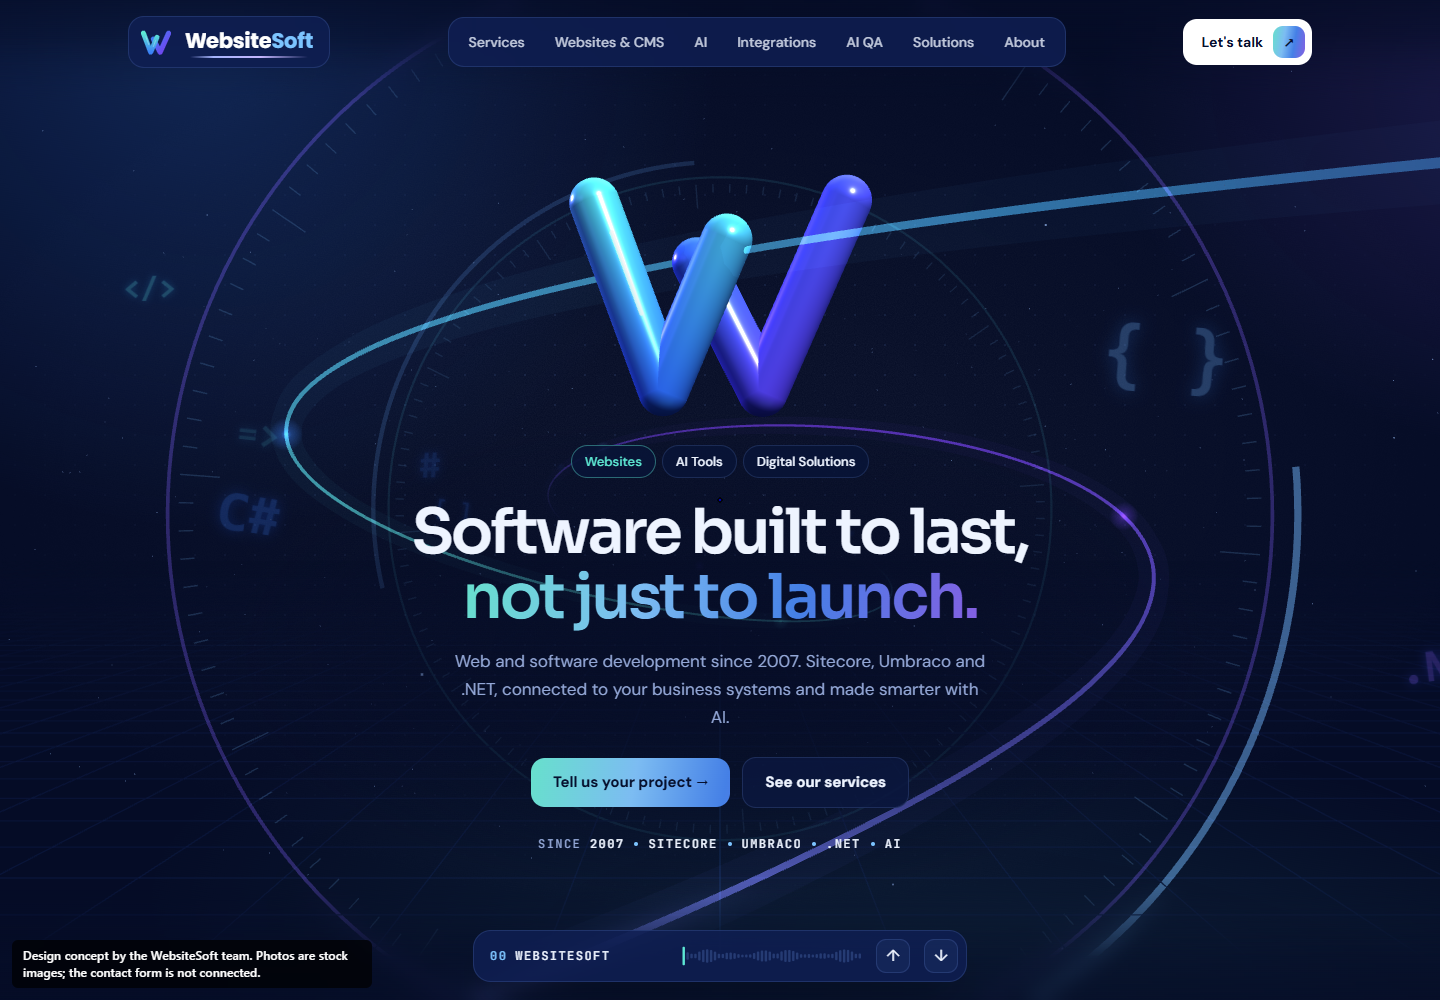
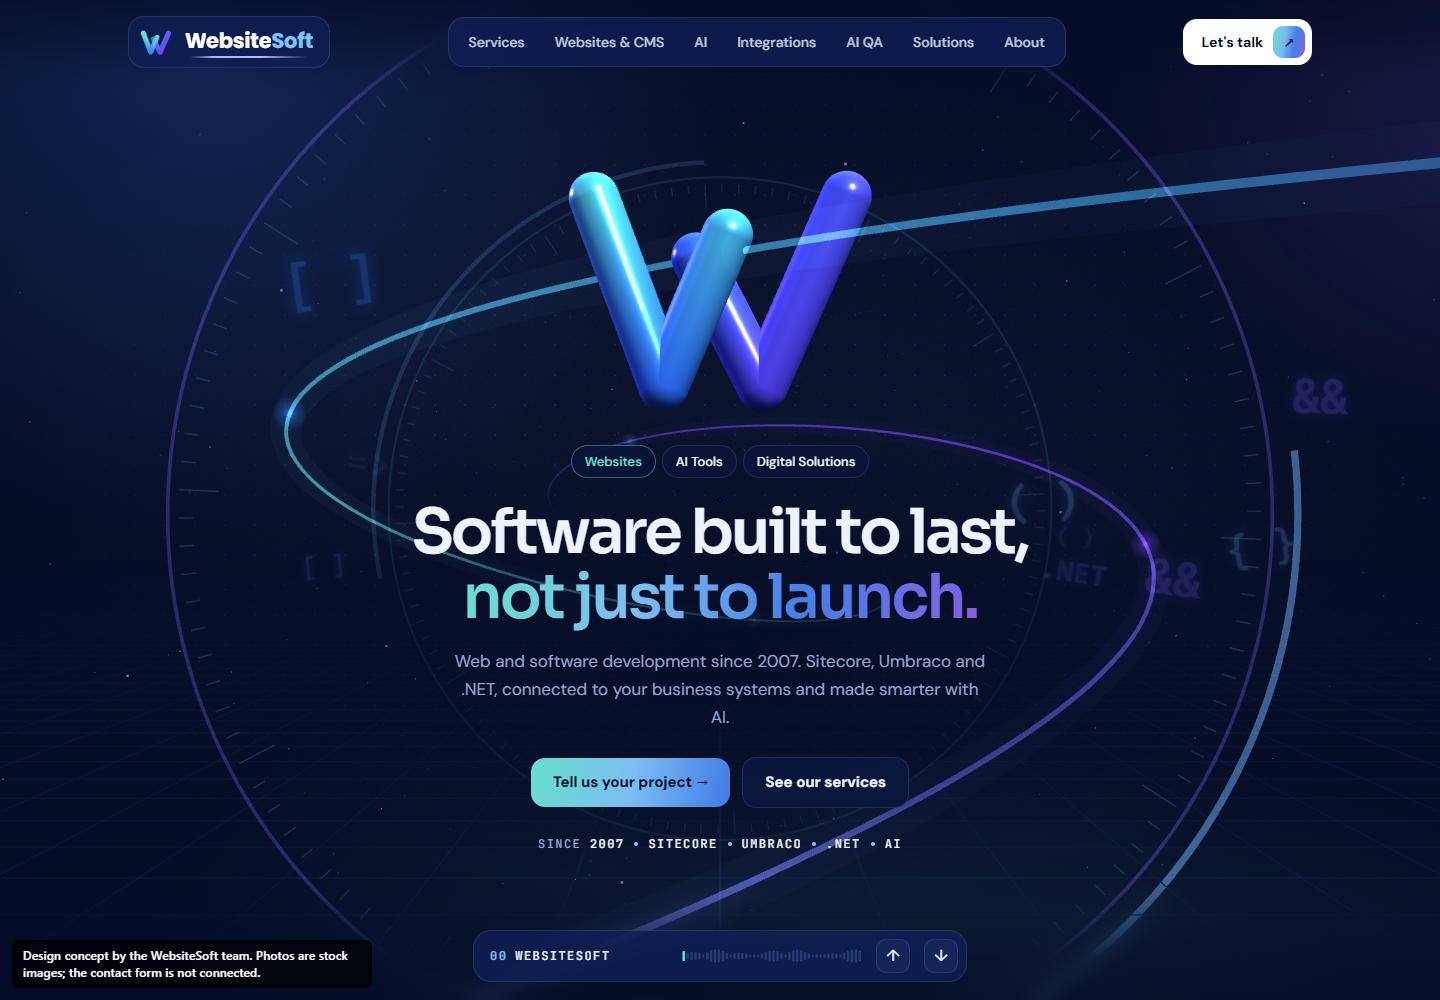
Publish direction 09: Studio (main@1db69a3)

diff --git a/09/index.html b/09/index.html
@@ -1,13 +1,13 @@
 <!doctype html>
 <html lang="en-GB">
 <head>
-    <meta name="robots" content="noindex, nofollow, noarchive" />
 <meta charset="utf-8">
 <meta name="viewport" content="width=device-width, initial-scale=1, viewport-fit=cover">
 <title>WebsiteSoft | Web &amp; software development since 2007</title>
 <meta name="description" content="WebsiteSoft builds custom website software, Sitecore and XM Cloud, Umbraco CMS, .NET applications, API integrations and AI tools. Web and software development since 2007.">
 <meta name="keywords" content="WebsiteSoft, custom website software, Sitecore, legacy Sitecore, XM Cloud, Umbraco, .NET, C#, CMS migration, API integration, AI integration, AI QA">
 <meta name="author" content="WebsiteSoft">
+<meta name="robots" content="noindex, nofollow, noarchive">
 <meta name="theme-color" content="#050c26">
 <link rel="canonical" href="https://www.websitesoft.co.uk/">
 <meta property="og:type" content="website">
@@ -26,6 +26,7 @@
 <link rel="stylesheet" href="https://fonts.googleapis.com/css2?family=Poppins:wght@700&family=Sora:wght@300;400;600;700&family=DM+Sans:wght@400;500;700&family=JetBrains+Mono:wght@400;500&display=swap">
 <link rel="icon" href="assets/img/favicon.svg" type="image/svg+xml">
 <link rel="stylesheet" href="assets/css/styles.css">
+<script data-preview-note-script>addEventListener('load',function(){setTimeout(function(){if(document.querySelector('[data-preview-note]'))return;var d=document.createElement('div');d.setAttribute('data-preview-note','');d.setAttribute('role','note');d.style.cssText="position:fixed;left:12px;bottom:12px;z-index:2147483647;max-width:min(360px,calc(100vw - 24px));padding:7px 11px;border-radius:6px;background:rgba(0,0,0,.72);color:#fff;font:500 12px/1.4 system-ui,-apple-system,'Segoe UI',sans-serif;letter-spacing:.01em;pointer-events:none;backdrop-filter:blur(4px)";d.textContent="Design concept by the WebsiteSoft team. Photos are stock images; the contact form is not connected.";document.body.appendChild(d);},1500);});</script>
 </head>
 <body>
 <svg width="0" height="0" style="position:absolute" aria-hidden="true">
@@ -283,6 +284,5 @@
 </nav>
 <script src="assets/vendor/three.min.js"></script>
 <script src="assets/js/main.js"></script>
-<div data-preview-note role="note" style="position:fixed;left:12px;bottom:12px;z-index:2147483647;max-width:min(360px,calc(100vw - 24px));padding:7px 11px;border-radius:6px;background:rgba(0,0,0,.72);color:#fff;font:500 12px/1.4 system-ui,-apple-system,'Segoe UI',sans-serif;letter-spacing:.01em;pointer-events:none;backdrop-filter:blur(4px)">Design concept by the WebsiteSoft team. Photos are stock images; the contact form is not connected.</div>
 </body>
 </html>
